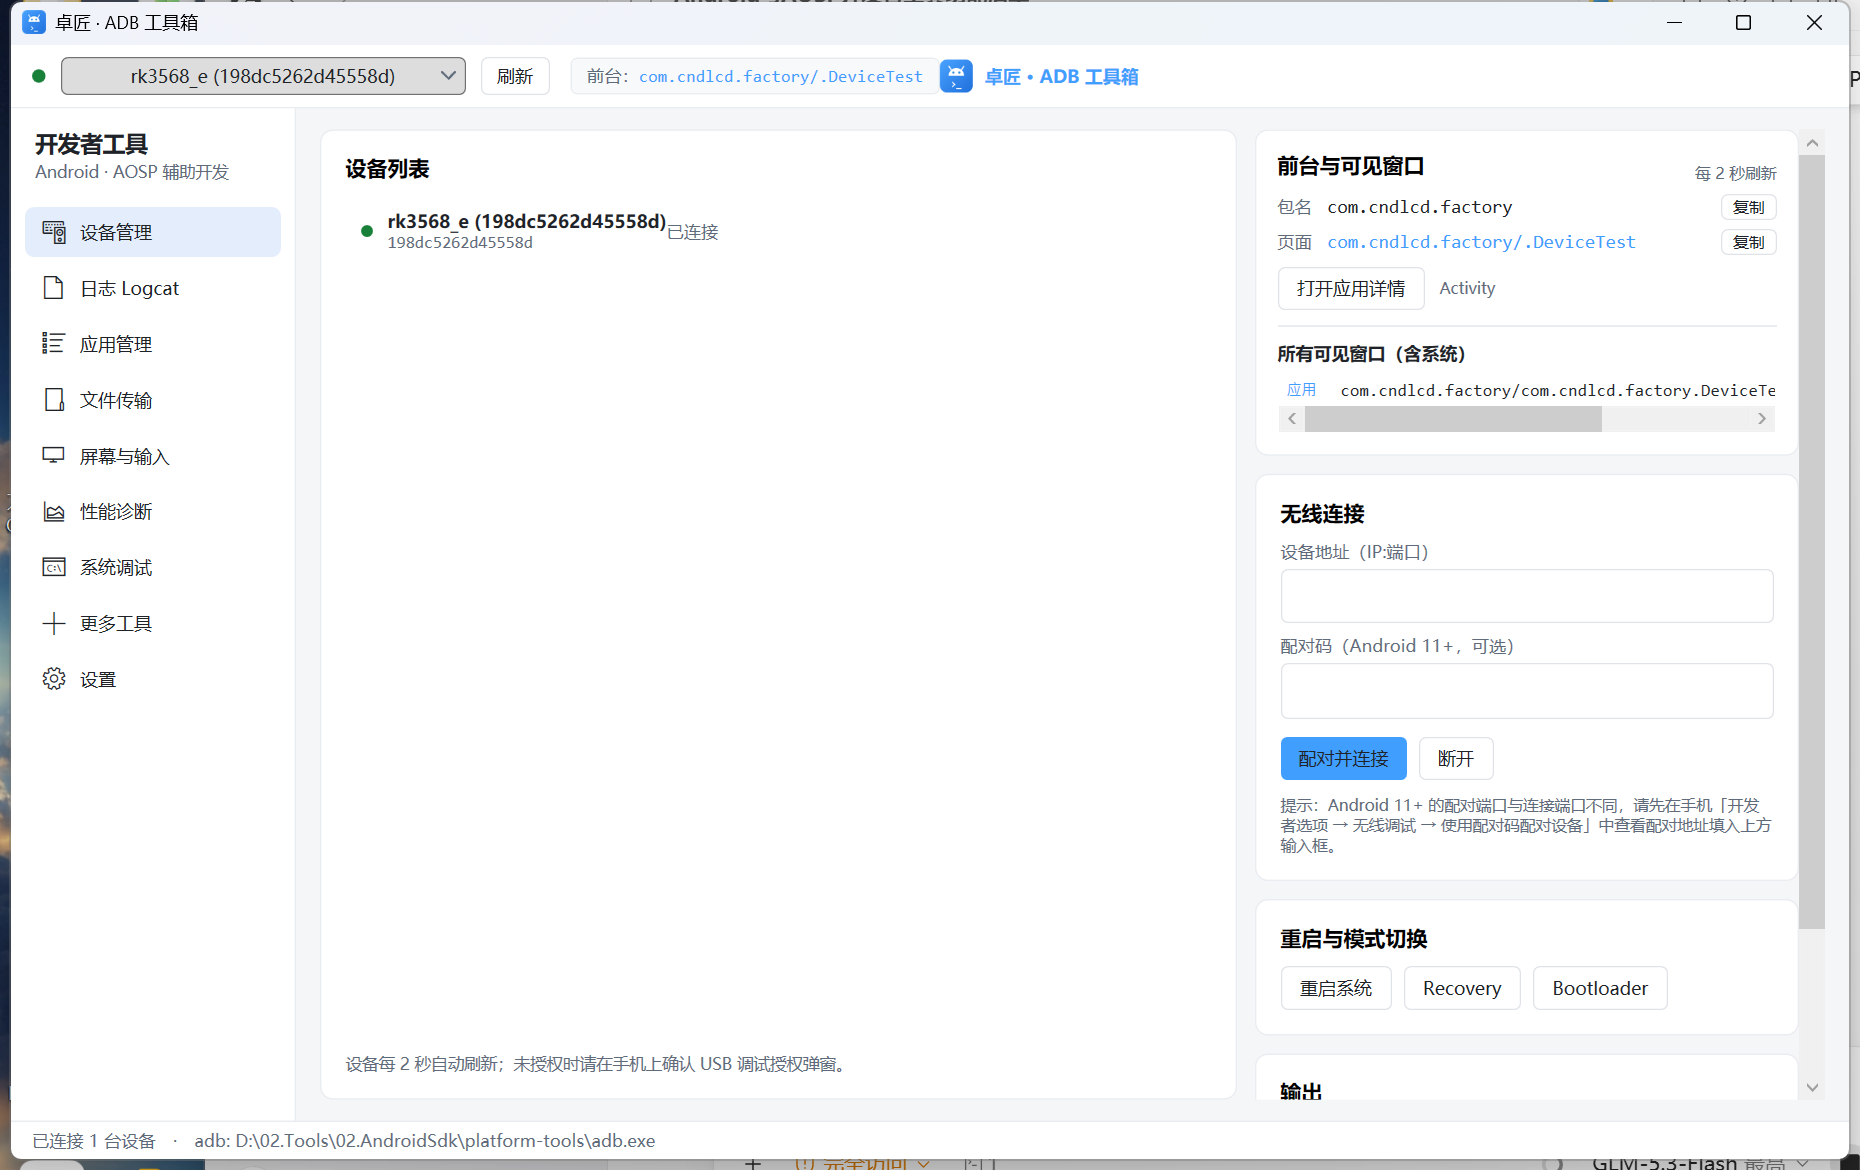
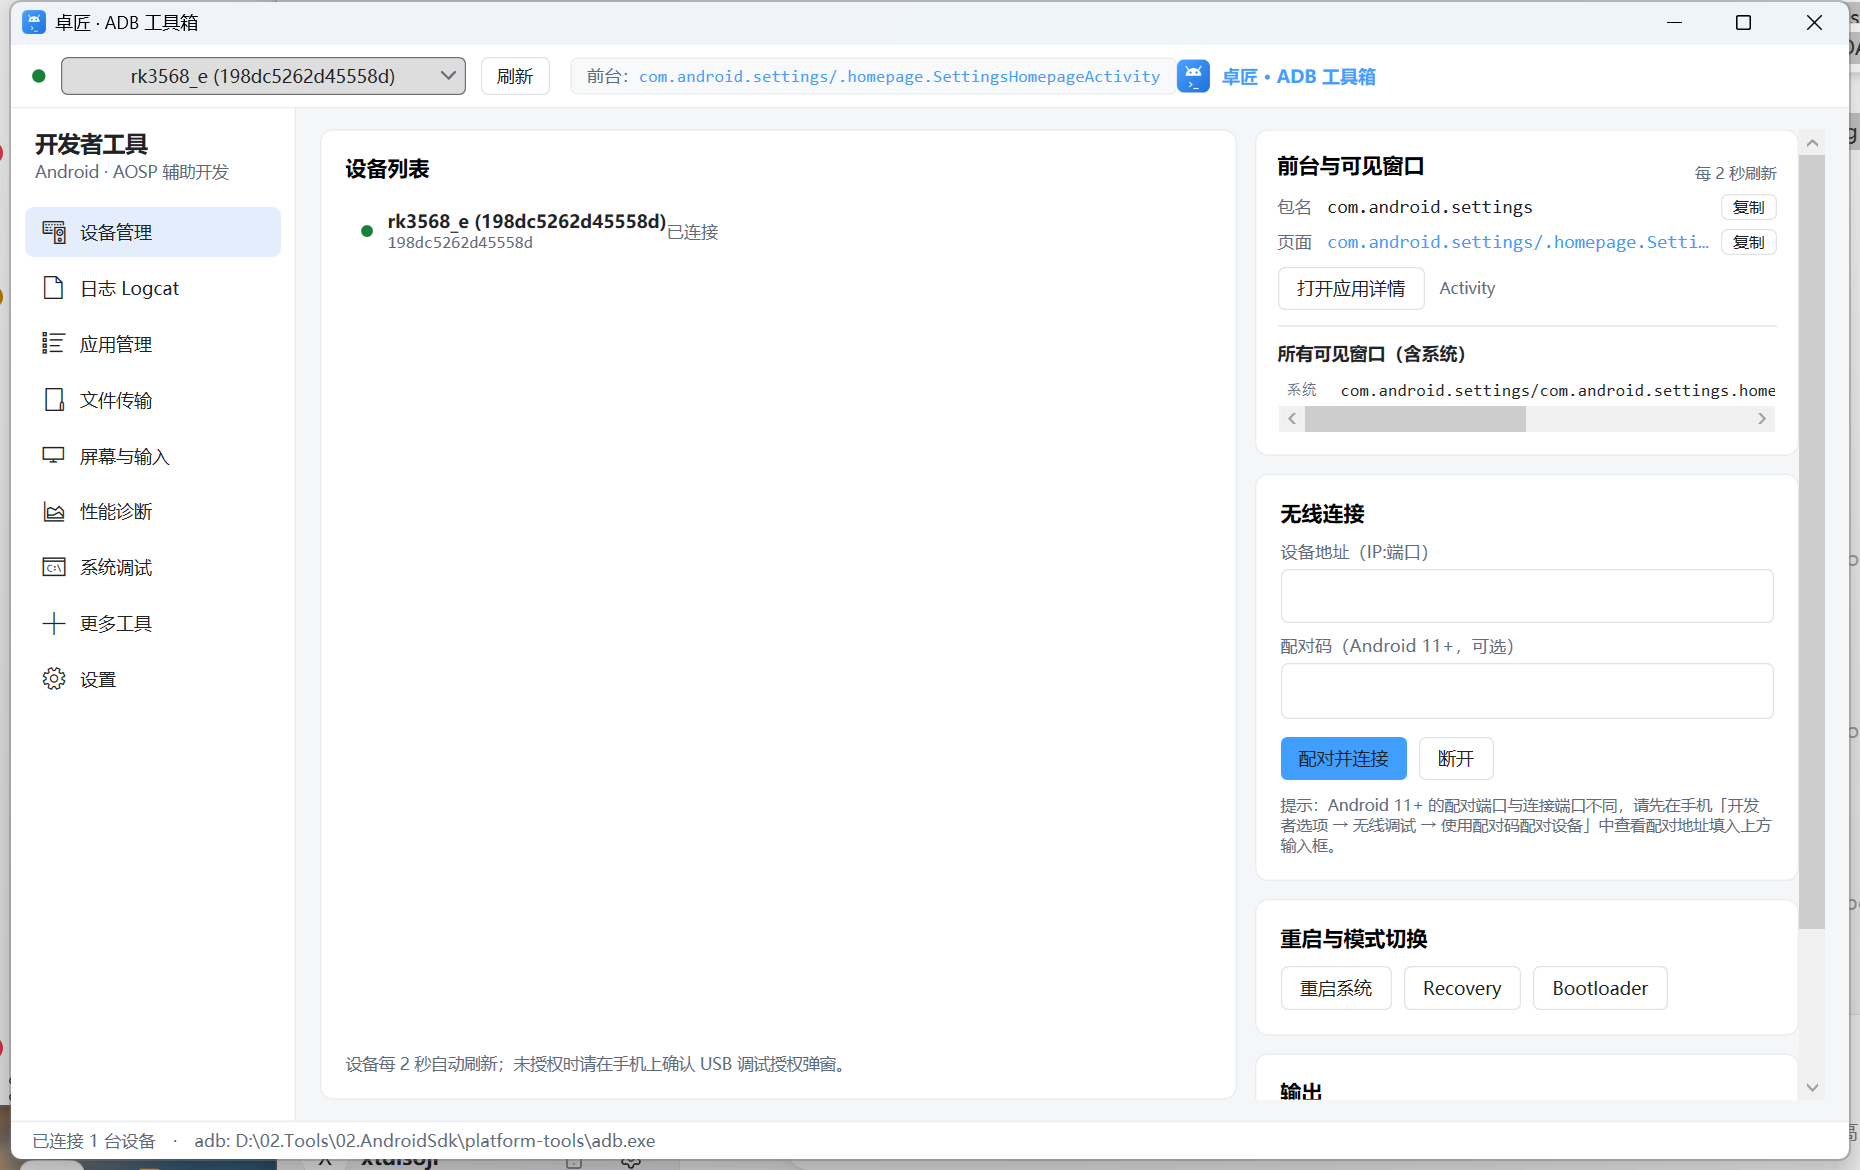
docs: 全套 README 真机截图（自动流水线）+ 应用名列空白优化
- scripts/take-screenshots.ps1：自动切页/触发抓取/深浅色切换并逐页截图
- docs/images：ui-devices / ui-logcat / ui-files / ui-apps / ui-dark 五张实拍
- AppInfo.Label 默认值改为空（未解析时列表更整洁）

diff --git a/src/AdbToolkit/Models/AppInfo.cs b/src/AdbToolkit/Models/AppInfo.cs
@@ -11,8 +11,8 @@ public class AppInfo : INotifyPropertyChanged
 
     public bool IsSystem { get; init; }
 
-    /// <summary>应用显示名（从 APK manifest 解析，后台懒加载填充）。</summary>
-    private string _label = "…";
+    /// <summary>应用显示名（从 APK manifest 解析，右键获取应用名/详情后填充；未解析时留空显示包名由 UI 处理）。</summary>
+    private string _label = "";
     public string Label
     {
         get => _label;

diff --git a/src/AdbToolkit/ViewModels/AppsViewModel.cs b/src/AdbToolkit/ViewModels/AppsViewModel.cs
@@ -322,7 +322,7 @@ public partial class AppsViewModel : ObservableObject
         var app = SelectedApp;
         if (app is null) { Status = "请先选中应用"; return; }
         var text = copyPath ? app.ApkPath
-            : copyLabel ? (app.Label is "…" or "—" ? app.Package : app.Label)
+            : copyLabel ? (string.IsNullOrWhiteSpace(app.Label) ? app.Package : app.Label)
             : app.Package;
         try
         {
